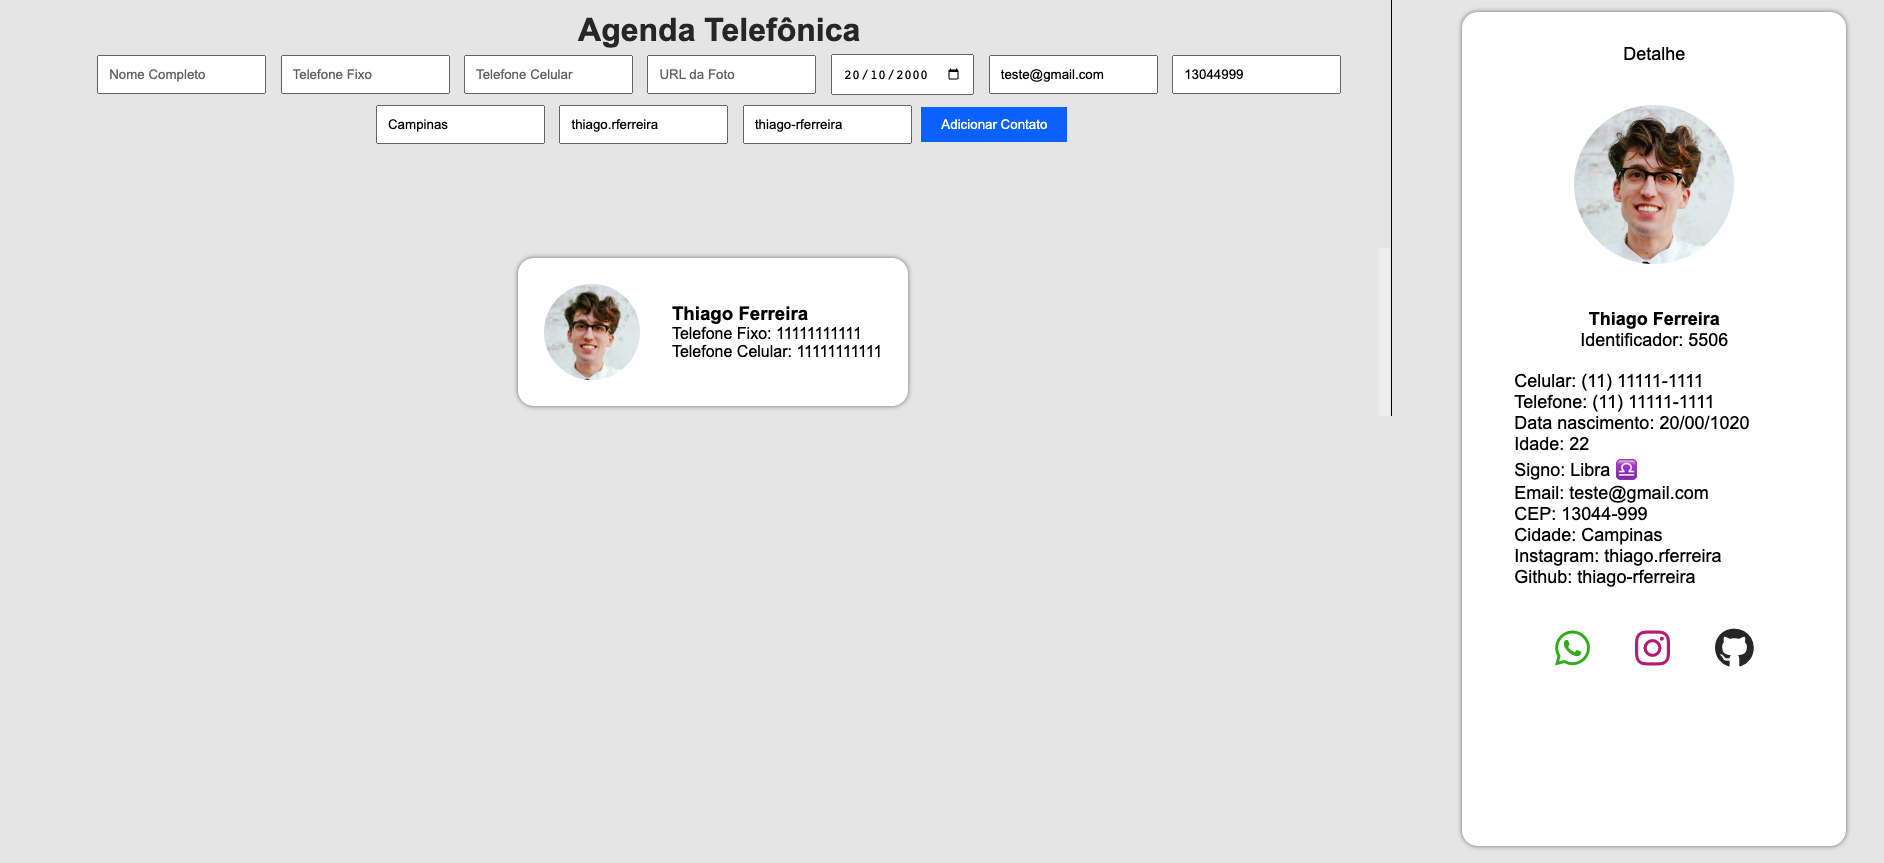
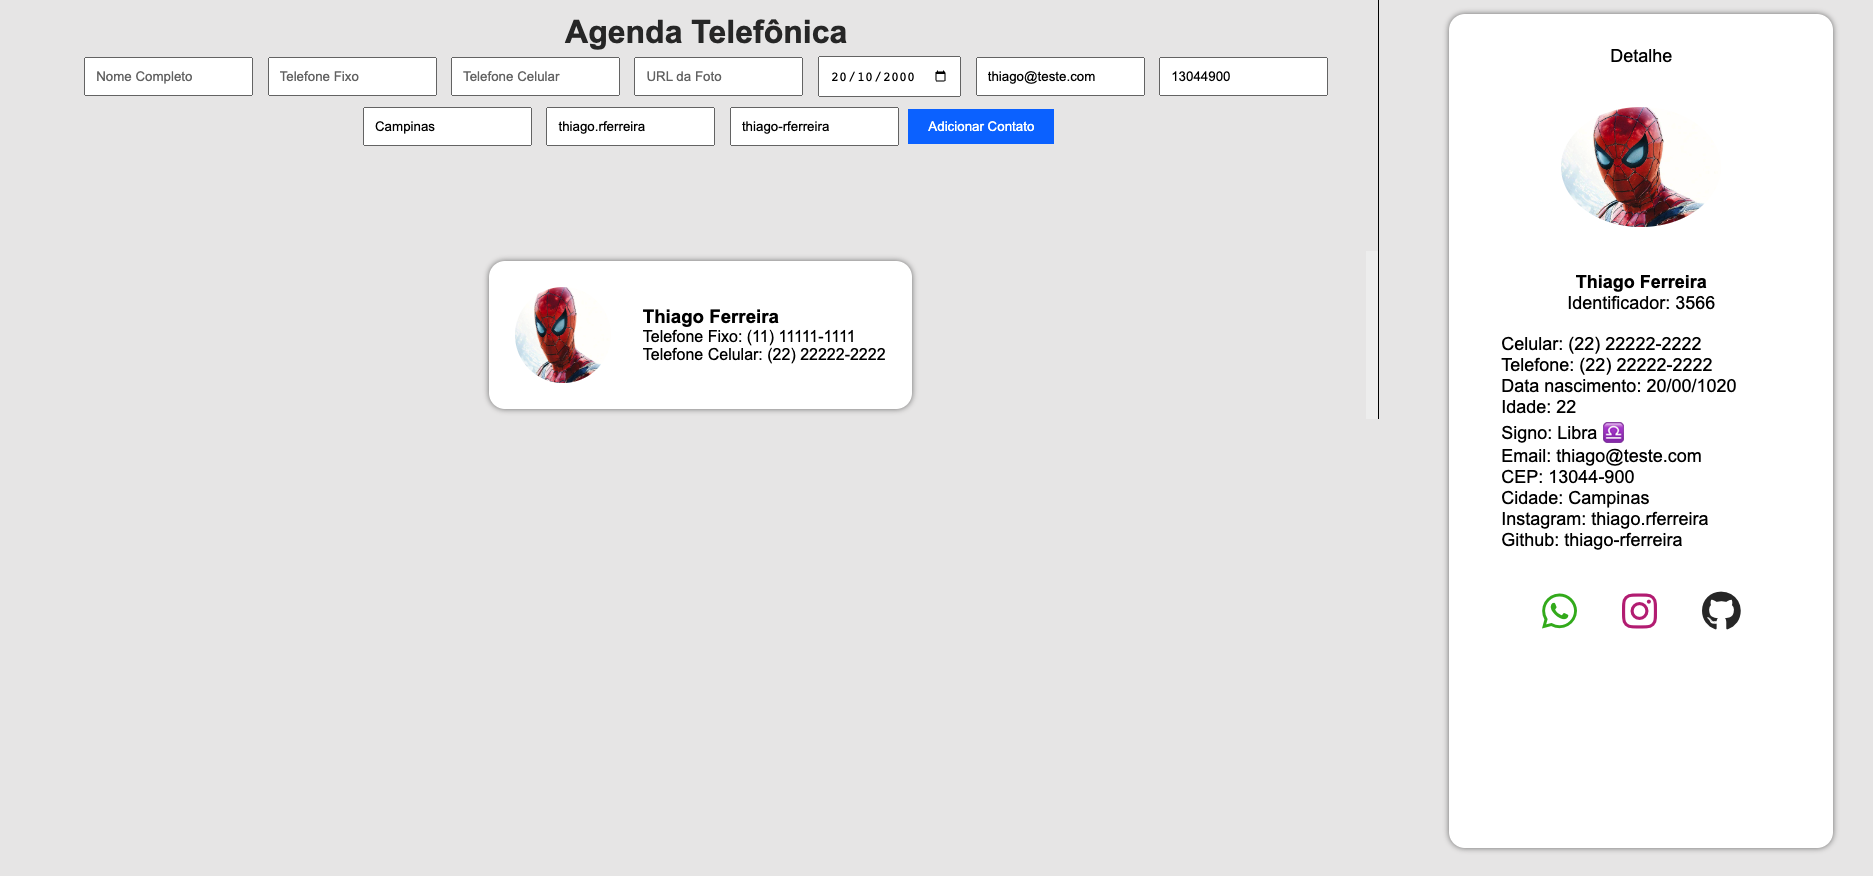
fix

diff --git a/script.js b/script.js
@@ -131,8 +131,8 @@ function exibirContatos() {
         <img src="${contato.photo}" alt="${contato.fullname}">
             <div class="div-info-contact">
                 <h3>${contato.fullname}</h3>
-            <p>Telefone Fixo: ${contato.phone}</p>
-            <p>Telefone Celular: ${contato.cellphone}</p>
+            <p>Telefone Fixo: ${formateCelular(contato.phone)}</p>
+            <p>Telefone Celular: ${formateCelular(contato.cellphone)}</p>
             </div>
         </div>
     `;
@@ -161,7 +161,7 @@ function clearInputs() {
     document.getElementById("city").value = "";
     document.getElementById("insta").value = "";
     document.getElementById("github").value = "";
-    
+
 }
 
 function sendMSG(msg, type) {

diff --git a/README.md b/README.md
@@ -1,1 +1,86 @@
 # Projeto-Agenda
+
+![Exemplo de Uso](./src/tela.png)
+# Aplicação de Gerenciamento de Contatos
+
+Esta é uma aplicação de gerenciamento de contatos que permite adicionar, listar e visualizar detalhes de contatos. Ela inclui algumas funcionalidades interessantes, como cálculo do signo com base na data de nascimento e validação de campos de entrada.
+
+## Classes
+
+### `Contato`
+
+A classe `Contato` representa um contato e possui os seguintes atributos:
+
+- `fullname`: Nome completo do contato.
+- `phone`: Número de telefone fixo.
+- `cellphone`: Número de telefone celular.
+- `photo`: URL da foto do contato.
+- `id`: Identificador único gerado aleatoriamente.
+- `birthdate`: Data de nascimento do contato.
+- `email`: Endereço de email do contato.
+- `cep`: CEP do contato.
+- `city`: Cidade do contato.
+- `signo`: Signo do zodíaco com base na data de nascimento.
+- `age`: Idade calculada com base na data de nascimento.
+- `insta`: Nome de usuário do Instagram do contato.
+- `github`: Nome de usuário do GitHub do contato.
+
+A classe também possui dois métodos:
+
+- `getZodiacSign()`: Calcula e retorna o signo com base na data de nascimento.
+- `calculateAge()`: Calcula e retorna a idade com base na data de nascimento.
+
+### `ListaContatos`
+
+A classe `ListaContatos` representa uma lista de contatos e possui um atributo `contatos`, que é um array para armazenar os contatos. Ela também possui três métodos:
+
+- `adicionarContato(contato)`: Adiciona um novo contato à lista após a validação.
+- `listarContatos()`: Retorna a lista de contatos.
+- `getContactById(id)`: Retorna um contato com base no ID fornecido.
+
+## Funções JavaScript
+
+Além das classes, o código também inclui várias funções JavaScript:
+
+- `adicionarContato()`: Lê os dados do formulário e cria um novo contato.
+- `limparFormulario()`: Limpa os campos do formulário após a adição de um contato.
+- `exibirContatos()`: Exibe a lista de contatos na interface do usuário.
+- `isURLValida(url)`: Verifica se a URL da foto é válida.
+- `clearInputs()`: Limpa todos os campos do formulário.
+- `sendMSG(msg, type)`: Exibe uma mensagem na interface do usuário.
+- `isAnyInputEmpty()`: Verifica se algum campo do formulário está vazio.
+- `randomId()`: Gera um ID aleatório e verifica se já existe na lista de contatos.
+- `checarIdExiste(id)`: Verifica se um ID já existe na lista de contatos.
+- `gerarLinkWhatsapp(telefone)`: Gera um link para o WhatsApp com base no número de telefone.
+- `gerarLinkInstagram(insta)`: Gera um link para o perfil do Instagram com base no nome de usuário.
+- `gerarLinkGithub(github)`: Gera um link para o perfil do GitHub com base no nome de usuário.
+- `contatoDetalhe(id)`: Exibe os detalhes de um contato específico.
+- `exibirContatoDetalhe()`: Exibe os detalhes do contato na interface do usuário.
+- `formateCelular(celular)`: Formata o número de celular.
+- `formateCEP(cep)`: Formata o CEP.
+- `formateDataPTBR(data)`: Formata a data no formato DD/MM.
+
+## Uso
+
+Para usar a aplicação, siga estes passos:
+
+1. Abra o arquivo `index.html` em um navegador da web.
+2. Preencha os campos do formulário na interface do usuário com as informações do contato que você deseja adicionar.
+3. Clique no botão "Adicionar Contato" para adicionar o contato à lista.
+4. A lista de contatos será exibida na interface, mostrando uma imagem do contato, seu nome e números de telefone.
+5. Clique em um contato da lista para ver seus detalhes, incluindo links para WhatsApp, Instagram e GitHub.
+6. Você também pode limpar todos os campos do formulário clicando no botão "Limpar Campos".
+
+Lembre-se de que a aplicação inclui validações para garantir que os campos estejam preenchidos corretamente e que a URL da foto seja válida.
+
+## Requisitos
+
+A aplicação requer um navegador da web moderno para funcionar corretamente. Certifique-se de ter uma conexão com a Internet para carregar imagens de perfil dos contatos.
+
+## Contribuição
+
+Sinta-se à vontade para contribuir para este projeto aberto. Você pode adicionar novas funcionalidades, corrigir erros ou melhorar a interface do usuário. Basta enviar um pull request e seu código será revisado.
+
+## Autor
+
+Este projeto foi desenvolvido por Thiago Ferreira.
